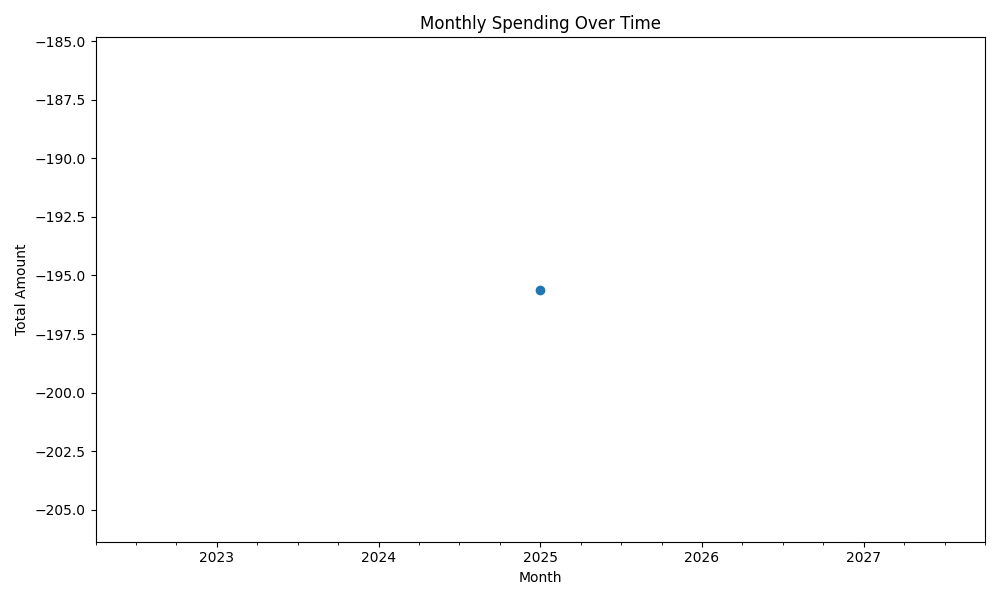
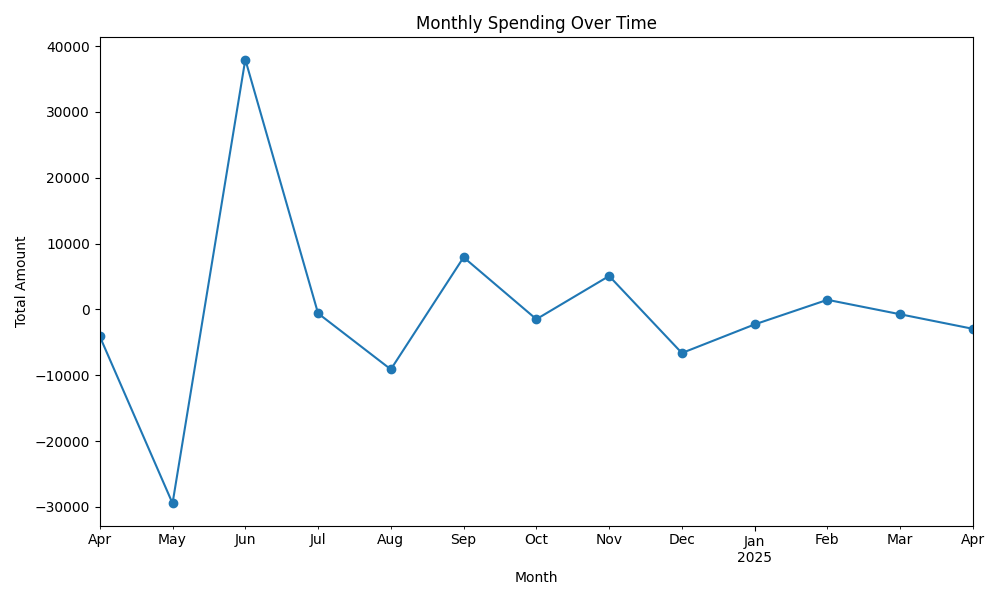
Added skip all and debugged

diff --git a/categorizer.py b/categorizer.py
@@ -2,6 +2,14 @@ import pandas as pd
 from config import RULES_FILE
 
 def categorize_transactions(df, rules, rules_path=RULES_FILE):
+
+    print("Cols in incoming df:", list(df.columns)) # For debugging column names
+
+    """
+    Categorizes transactions based on provided rules, prompts user for any uncategorized entries,
+    and optionally adds new rules for future runs.
+    Adds 'skip all' functionality to stop review early.
+    """
     df["Category"] = "Uncategorized"
 
     # Apply existing rules
@@ -18,27 +26,56 @@ def categorize_transactions(df, rules, rules_path=RULES_FILE):
 
     # Prompt user for review mode
     print(f"\n{len(uncategorized)} uncategorized transactions found.")
-    use_batch = input("Would you like to review them all at once? (y/n): ").strip().lower() == 'y'
+    use_batch = input("Would you like to review them all at once? (y/n): ")
+    use_batch = use_batch.strip().lower() == 'y'
 
     if use_batch:
+        # Batch review: list all descriptions first
         print("\nUncategorized Transactions:")
         for i, (_, row) in enumerate(uncategorized.iterrows()):
             print(f"[{i}] \"{row['description']}\"")
 
+        skip_all = False
         for i, (idx, row) in enumerate(uncategorized.iterrows()):
-            prompt = f"Enter category for [{i}] ({row['description']}): "
+            if skip_all:
+                break
+            prompt = (
+                f"Enter category for [{i}] ({row['description']}) "
+                "(or press Enter to skip, type 'skip all' to stop): "
+            )
             user_input = input(prompt).strip()
+            if user_input.lower() == 'skip all':
+                skip_all = True
+                break
             if user_input:
                 df.at[idx, "Category"] = user_input
-                new_rules.append({"Category": user_input, "Keyword": row["description"].lower(), "Ignore": 0})
+                new_rules.append({
+                    "Category": user_input,
+                    "Keyword": row["description"].lower(),
+                    "Ignore": 0
+                })
     else:
+        # Sequential review
+        skip_all = False
         for idx, row in uncategorized.iterrows():
+            if skip_all:
+                break
             desc = row["description"]
-            print(f"\nUncategorized transaction: {desc}")
-            user_input = input("Enter a category for this transaction (or press Enter to skip): ").strip()
+            prompt = (
+                f"\nUncategorized transaction: {desc}\n"
+                "Enter a category for this transaction "
+                "(or press Enter to skip, type 'skip all' to stop): "
+            )
+            user_input = input(prompt).strip()
+            if user_input.lower() == 'skip all':
+                break
             if user_input:
                 df.at[idx, "Category"] = user_input
-                new_rules.append({"Category": user_input, "Keyword": desc.lower(), "Ignore": 0})
+                new_rules.append({
+                    "Category": user_input,
+                    "Keyword": desc.lower(),
+                    "Ignore": 0
+                })
 
     # Append new rules to the CSV file if any
     if new_rules:

diff --git a/analyzer.py b/analyzer.py
@@ -1,9 +1,33 @@
 import pandas as pd
 
 def summarize_by_category(df):
-    return df.groupby("Category")["Amount"].sum().sort_values(ascending=False)
+    amt_col = "Amount" if "Amount" in df.columns else "amount"
+    return (
+        df.groupby("Category")[amt_col]
+          .sum()
+          .sort_values(ascending=False)
+    )
 
 def monthly_spending(df):
-    df["Date"] = pd.to_datetime(df["Date"], format="mixed", errors="coerce")
+    # 1) find the date column
+    if "Date" in df.columns:
+        date_col = "Date"
+    elif "date" in df.columns:
+        date_col = "date"
+    else:
+        raise KeyError("No 'Date' or 'date' column found for monthly_spending()")
+
+    # 2) find the amount column
+    if "Amount" in df.columns:
+        amt_col = "Amount"
+    elif "amount" in df.columns:
+        amt_col = "amount"
+    else:
+        raise KeyError("No 'Amount' or 'amount' column found for monthly_spending()")
+
+    # 3) coerce to datetime and extract month
+    df["Date"] = pd.to_datetime(df[date_col], errors="coerce")
     df["Month"] = df["Date"].dt.to_period("M")
-    return df.groupby("Month")["Amount"].sum()
+
+    # 4) group and return
+    return df.groupby("Month")[amt_col].sum()

diff --git a/main.py b/main.py
@@ -55,9 +55,11 @@ def main():
         merged_df = pd.concat(all_data, ignore_index=True)
         categorized_df = categorize_transactions(merged_df, {})
 
+        print("→ Columns in categorized_df:", categorized_df.columns.tolist()) # For debugging
+
         monthly_df = monthly_spending(categorized_df)
         plot_monthly_spending(monthly_df)
-        plot_spending_by_category(categorized_df)
+        plot_summary_by_category(categorized_df)
 
         final_output_path = os.path.join(WORKING_DIR, "final_categorized_transactions.csv")
         categorized_df.to_csv(final_output_path, index=False)
